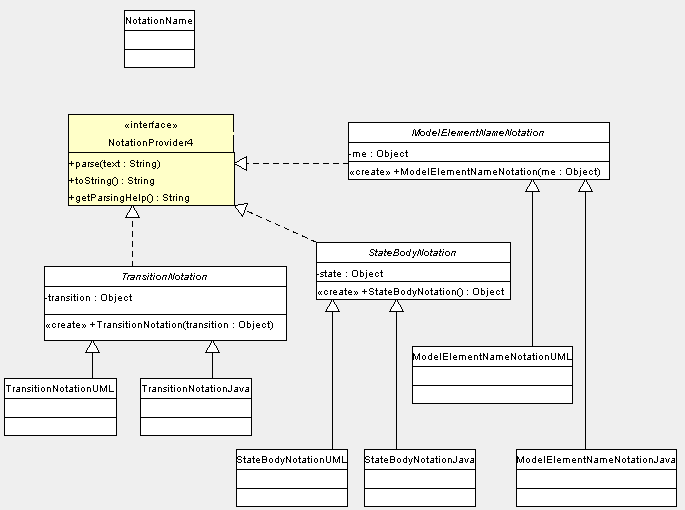
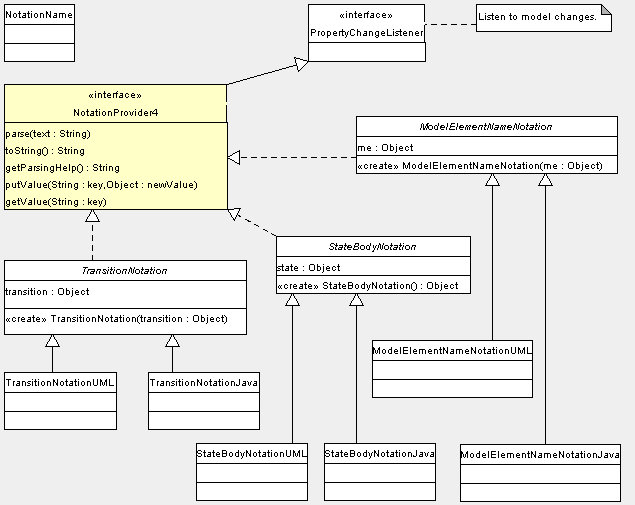
Clarifyed the plans for having the notationproviders listen to the model changes.

diff --git a/www/proposals/notation/index.html b/www/proposals/notation/index.html
@@ -28,7 +28,7 @@
   http://argouml.tigris.org/servlets/ReadMsg?list=dev&msgNo=16309</a>
   and the attachment from Michael.</p>
   <p>The latest .zargo of this proposal is 
-  <a href="notation-mvw-6.zargo">here</a>.</P>
+  <a href="notation-mvw-7.zargo">here</a>.</P>
 
 <H2>The old way / dev list proposal</H2>
 
@@ -52,8 +52,7 @@
   A state will show the latter 2.</p>
 <p>This notation object would keep track of which UML objects it 
   represents, generate and parse and provide a help text.</p>
-<p>Remark:
-  Maybe, in the future, this notation object could listen to model changes, instead of the Fig. 
+<p>This notation object should listen to model changes, instead of the Fig. 
   Putting the latter task into this new Notation class (instead of the Fig) 
   has the advantage that the knowledge 
   to which uml objects to listen is centralised 
